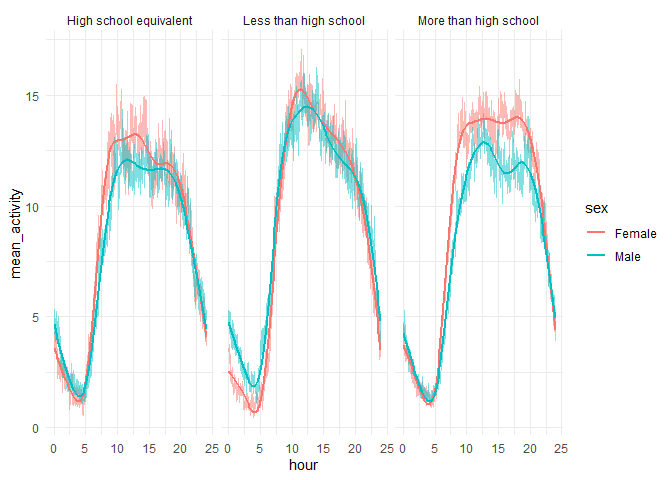
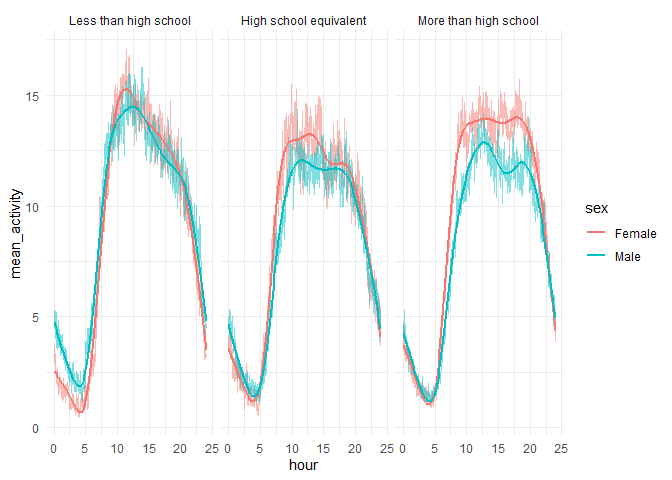
Give an order to education level for Q2.  add na = () for Q3 when import the datasets

Changed region(s): [[0.0625, 0.125, 0.5938, 0.875], [0.3438, 0.0312, 0.5625, 0.0625], [0.0938, 0.0312, 0.2812, 0.0625]]

diff --git a/p8105_hw3_tl3279.md b/p8105_hw3_tl3279.md
@@ -177,7 +177,13 @@ accel_df =
 
 merged_df = 
   accel_df |>
-  inner_join(demo_df, by = "seqn")
+  inner_join(demo_df, by = "seqn") |>
+  mutate(education = factor(education, 
+                           levels = 
+                             c("Less than high school", 
+                               "High school equivalent", 
+                               "More than high school"),
+                           ordered = TRUE))
 ```
 
 Create the table
@@ -191,8 +197,8 @@ merged_df |>
 
 | education              | Female | Male |
 |:-----------------------|-------:|-----:|
-| High school equivalent |     23 |   35 |
 | Less than high school  |     28 |   27 |
+| High school equivalent |     23 |   35 |
 | More than high school  |     59 |   56 |
 
 The distribution of males and females across education levels seems
@@ -211,17 +217,17 @@ merged_df |>
 ```
 
 ![](p8105_hw3_tl3279_files/figure-gfm/unnamed-chunk-8-1.png)<!-- -->
-High School Equivalent:  
-Females: There is a noticeable peak in the 60-80 age range, indicating a
-higher concentration of older females in this education group. Males:
-The male distribution shows more variability, with one peak around 40-60
-years and another peak at 70-80 years.
-
 Less than High School:  
 Females: The age distribution for females in this group is relatively
 flat, with a slight peak in the 40-60 year age range. There is also some
 density in the 70-80 range. Males: Similar to females, but with a more
 noticeable peak in the 60-70 year range.
+
+High School Equivalent:  
+Females: There is a noticeable peak in the 60-80 age range, indicating a
+higher concentration of older females in this education group. Males:
+The male distribution shows more variability, with one peak around 40-60
+years and another peak at 70-80 years.
 
 More than High School:  
 Females: The distribution of females shows a peak in the 40-60 year
@@ -248,18 +254,18 @@ activity_df |>
     ## `geom_smooth()` using method = 'loess' and formula = 'y ~ x'
 
 ![](p8105_hw3_tl3279_files/figure-gfm/unnamed-chunk-9-1.png)<!-- -->
-High School Equivalent:  
-Females: Showed a generally higher activity level compared to males,
-with a decrease in total activity after 40 (but a slight increase at
-60). Males: Maintained a more consistent level of activity over age, but
-also with a decline in total activity in 40s.
-
 Less than High School:  
 The activity levels for both males and females show a decline as age
 increases, particularly after the age of 60. Females: Gradual decline in
 activity starting from around age 40. Males: Initially have slightly
 higher total activity than females in younger age groups (20-40), but
 also with sharp drop in total activity after age 60.
+
+High School Equivalent:  
+Females: Showed a generally higher activity level compared to males,
+with a decrease in total activity after 40 (but a slight increase at
+60). Males: Maintained a more consistent level of activity over age, but
+also with a decline in total activity in 40s.
 
 More than High School:  
 Females: Total activity is about steady at an ealier age (20-40),
@@ -282,36 +288,23 @@ merged_df |>
   theme_minimal()
 ```
 
-    ## Warning: There was 1 warning in `summarise()`.
-    ## ℹ In argument: `across(starts_with("min"), mean, na.rm = TRUE)`.
-    ## ℹ In group 1: `sex = "Female"` and `education = "High school equivalent"`.
-    ## Caused by warning:
-    ## ! The `...` argument of `across()` is deprecated as of dplyr 1.1.0.
-    ## Supply arguments directly to `.fns` through an anonymous function instead.
-    ## 
-    ##   # Previously
-    ##   across(a:b, mean, na.rm = TRUE)
-    ## 
-    ##   # Now
-    ##   across(a:b, \(x) mean(x, na.rm = TRUE))
-
 ![](p8105_hw3_tl3279_files/figure-gfm/unnamed-chunk-10-1.png)<!-- -->
 The overall pattern for the three education levels all follows a typical
 daily activity curve, with activity rising sharply in the morning
 (around 5-6 AM), peaking around mid-day, and declining sharply after 8
 PM.
 
-High School Equivalent:  
-Both males and females show similar activity patterns, with peaks in
-activity occurring between 6 AM and 8 PM. Females have a slightly higher
-average activity level than males throughout the day, particularly
-during the mid-day hours (10 AM - 4 PM).
-
 Less than High School:  
 Males have slightly higher activity levels in the morning (before 8-9
 AM) than females, and females have higher activity levels after 9 AM,
 but the trends are  
 close.
+
+High School Equivalent:  
+Both males and females show similar activity patterns, with peaks in
+activity occurring between 6 AM and 8 PM. Females have a slightly higher
+average activity level than males throughout the day, particularly
+during the mid-day hours (10 AM - 4 PM).
 
 More than High School:  
 There is higher activity in females compared to males throughout the
@@ -323,19 +316,19 @@ import the datasets and combine
 
 ``` r
 Jan_20 = 
-  read_csv("citibike/Jan 2020 Citi.csv") |>
+  read_csv("citibike/Jan 2020 Citi.csv", na = c("NA", "", ".")) |>
   janitor::clean_names()
 
 Jul_20 = 
-  read_csv("citibike/July 2020 Citi.csv") |>
+  read_csv("citibike/July 2020 Citi.csv", na = c("NA", "", ".")) |>
   janitor::clean_names()
 
 Jan_24 = 
-  read_csv("citibike/Jan 2024 Citi.csv") |>
+  read_csv("citibike/Jan 2024 Citi.csv", na = c("NA", "", ".")) |>
   janitor::clean_names()
 
 Jul_24 = 
-  read_csv("citibike/July 2024 Citi.csv") |>
+  read_csv("citibike/July 2024 Citi.csv",na = c("NA", "", ".")) |>
   janitor::clean_names()
 
 citibike_df = 
@@ -355,6 +348,7 @@ Create the table
 
 ``` r
 citibike_df |>
+  filter(!is.na(member_casual)) |>
   group_by(year, month, member_casual) |>
   summarise(total_rides = n()) |>
   pivot_wider(names_from = member_casual, values_from = total_rides) |>
@@ -383,7 +377,7 @@ example. member rides grew to 36,262 in July 2024, more than double the
 
 ``` r
 citibike_df |>
-  filter(year == 2024, month == "July") |>
+  filter(year == 2024, month == "July",!is.na(start_station_name)) |>
   group_by(start_station_name) |>
   summarise(num_rides = n()) |>
   arrange(desc(num_rides)) |>
